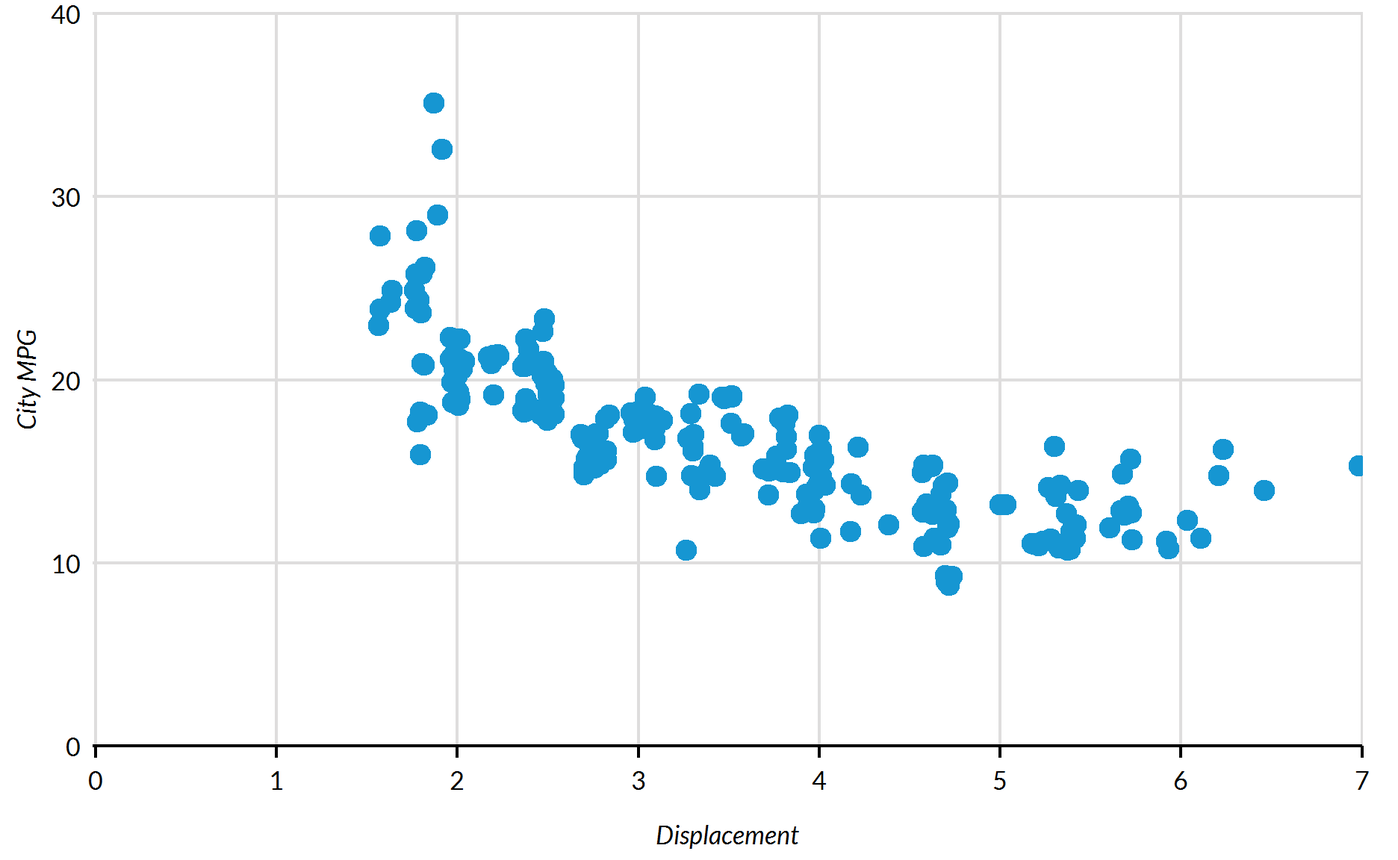
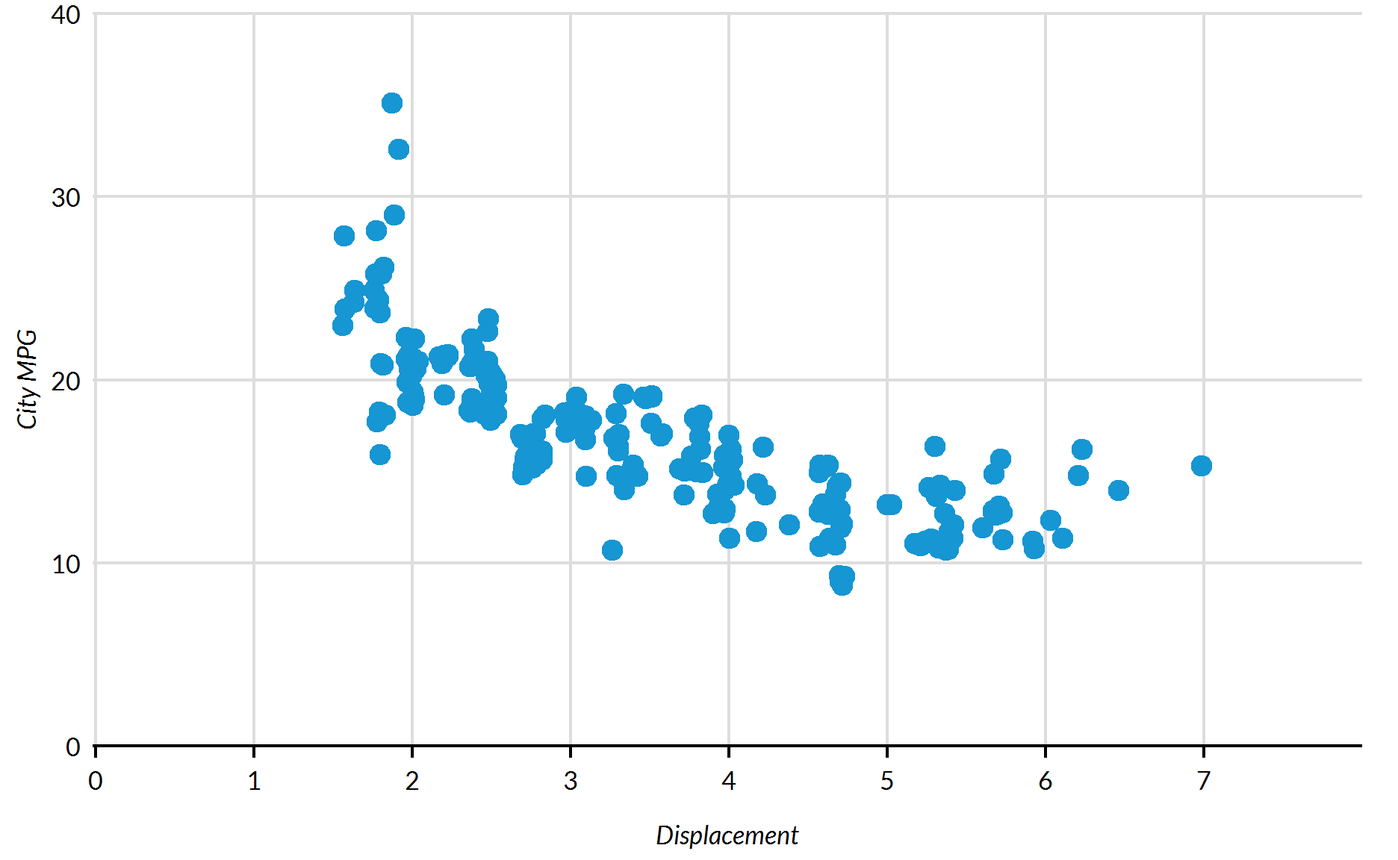
Make minor changes to the graphics guide. Add square corners to the tabs.

diff --git a/optimization.html b/optimization.html
@@ -472,7 +472,7 @@ profvis({
 
 })</code></pre>
 <div id="htmlwidget-8b456f2c311110f71d08" style="width:100%;height:600px;" class="profvis html-widget"></div>
-<script type="application/json" data-for="htmlwidget-8b456f2c311110f71d08">{"x":{"message":{"prof":{"time":[1,1,1,1,1,1,1,1,1,1,1,1,1,1,1,1,1,1,1,1,1,1,1,1,1,1,1,2,2,2,3,3,3,4,4,4,5,5,5,6,6,6,7,7,7,8,8,8,9,9,9,9,9,10,10,10,10,10,11,11,11,11,11,12,12,12,12,12,13,13,13,13,13,14,14,14,14,14,14,14,14,14,14,14,14],"depth":[27,26,25,24,23,22,21,20,19,18,17,16,15,14,13,12,11,10,9,8,7,6,5,4,3,2,1,3,2,1,3,2,1,3,2,1,3,2,1,3,2,1,3,2,1,3,2,1,5,4,3,2,1,5,4,3,2,1,5,4,3,2,1,5,4,3,2,1,5,4,3,2,1,12,11,10,9,8,7,6,5,4,3,2,1],"label":["profvis","eval","eval","withVisible","withCallingHandlers","handle","timing_fn","evaluate_call","evaluate::evaluate","evaluate","in_dir","block_exec","call_block","process_group.block","process_group","withCallingHandlers","process_file","knitr::knit","rmarkdown::render","withCallingHandlers","suppressMessages","render_one","FUN","lapply","sapply","generator$render","rmarkdown::render_site","scan","read.table","read.csv","scan","read.table","read.csv","scan","read.table","read.csv","scan","read.table","read.csv","scan","read.table","read.csv","scan","read.table","read.csv","scan","read.table","read.csv",".External2","type.convert.default","type.convert","read.table","read.csv",".External2","type.convert.default","type.convert","read.table","read.csv",".External2","type.convert.default","type.convert","read.table","read.csv",".External2","type.convert.default","type.convert","read.table","read.csv",".External2","type.convert.default","type.convert","read.table","read.csv","summarise_impl","summarise.tbl_df","summarise","summarise_if","function_list[[k]]","withVisible","freduce","_fseq","eval","eval","withVisible","%>%"],"filenum":[null,null,null,null,null,null,null,null,null,null,null,null,null,null,null,null,null,null,null,null,null,null,null,null,null,null,null,null,null,1,null,null,1,null,null,1,null,null,1,null,null,1,null,null,1,null,null,1,null,null,null,null,1,null,null,null,null,1,null,null,null,null,1,null,null,null,null,1,null,null,null,null,1,null,null,null,null,null,null,null,null,null,null,null,1],"linenum":[null,null,null,null,null,null,null,null,null,null,null,null,null,null,null,null,null,null,null,null,null,null,null,null,null,null,null,null,null,5,null,null,5,null,null,5,null,null,5,null,null,5,null,null,5,null,null,5,null,null,null,null,5,null,null,null,null,5,null,null,null,null,5,null,null,null,null,5,null,null,null,null,5,null,null,null,null,null,null,null,null,null,null,null,7],"memalloc":[95.0050964355469,95.0050964355469,95.0050964355469,95.0050964355469,95.0050964355469,95.0050964355469,95.0050964355469,95.0050964355469,95.0050964355469,95.0050964355469,95.0050964355469,95.0050964355469,95.0050964355469,95.0050964355469,95.0050964355469,95.0050964355469,95.0050964355469,95.0050964355469,95.0050964355469,95.0050964355469,95.0050964355469,95.0050964355469,95.0050964355469,95.0050964355469,95.0050964355469,95.0050964355469,95.0050964355469,96.2087860107422,96.2087860107422,96.2087860107422,97.4387664794922,97.4387664794922,97.4387664794922,99.8961715698242,99.8961715698242,99.8961715698242,99.920051574707,99.920051574707,99.920051574707,104.819297790527,104.819297790527,104.819297790527,104.822845458984,104.822845458984,104.822845458984,104.831237792969,104.831237792969,104.831237792969,110.68480682373,110.68480682373,110.68480682373,110.68480682373,110.68480682373,113.743667602539,113.743667602539,113.743667602539,113.743667602539,113.743667602539,114.567276000977,114.567276000977,114.567276000977,114.567276000977,114.567276000977,114.979080200195,114.979080200195,114.979080200195,114.979080200195,114.979080200195,115.802688598633,115.802688598633,115.802688598633,115.802688598633,115.802688598633,117.453880310059,117.453880310059,117.453880310059,117.453880310059,117.453880310059,117.453880310059,117.453880310059,117.453880310059,117.453880310059,117.453880310059,117.453880310059,117.453880310059],"meminc":[0,0,0,0,0,0,0,0,0,0,0,0,0,0,0,0,0,0,0,0,0,0,0,0,0,0,0,1.20368957519531,0,0,1.22998046875,0,0,2.45740509033203,0,0,0.0238800048828125,0,0,4.89924621582031,0,0,0.00354766845703125,0,0,0.008392333984375,0,0,5.85356903076172,0,0,0,0,3.05886077880859,0,0,0,0,0.8236083984375,0,0,0,0,0.41180419921875,0,0,0,0,0.8236083984375,0,0,0,0,1.65119171142578,0,0,0,0,0,0,0,0,0,0,0],"filename":[null,null,null,null,null,null,null,null,null,null,null,null,null,null,null,null,null,null,null,null,null,null,null,null,null,null,null,null,null,"<expr>",null,null,"<expr>",null,null,"<expr>",null,null,"<expr>",null,null,"<expr>",null,null,"<expr>",null,null,"<expr>",null,null,null,null,"<expr>",null,null,null,null,"<expr>",null,null,null,null,"<expr>",null,null,null,null,"<expr>",null,null,null,null,"<expr>",null,null,null,null,null,null,null,null,null,null,null,"<expr>"]},"interval":10,"files":[{"filename":"<expr>","content":"library(profvis)\nlibrary(dplyr)\n\nprofvis({\n\tdiamonds <- read.csv(\"optimization/data/diamonds.csv\")\n\t\n\tdiamonds_by_cut <- diamonds %>%\n\t\tgroup_by(cut) %>%\n\t\tsummarise_if(is.numeric, mean)\n\n\twrite.csv(diamonds_by_cut, file = \"optimization/data/diamonds_by_cut.csv\")\t\n\n})\n","normpath":"<expr>"}],"prof_output":"D:\\Users\\AWILLI~1\\AppData\\Local\\Temp\\RtmpeMih3w\\file70106d531412.prof","highlight":{"output":["^output\\$"],"gc":["^<GC>$"],"stacktrace":["^\\.\\.stacktraceo(n|ff)\\.\\.$"]},"split":"h"}},"evals":[],"jsHooks":[]}</script>
+<script type="application/json" data-for="htmlwidget-8b456f2c311110f71d08">{"x":{"message":{"prof":{"time":[1,1,1,2,2,2,3,3,3,4,4,4,5,5,5,6,6,6,7,7,7,8,8,8,9,9,9,10,10,10,11,11,11,12,12,12,13,13,13,13,13,14,14,14,14,14,15,15,15,15,15,16,16,16,16,16,17,17,17,17,17,18,18,18,18,18,19,19,19,19,19,20,20,20,20,20,20,20,20,20,20,20,20,21,21,21,21,21,21,21],"depth":[3,2,1,3,2,1,3,2,1,3,2,1,3,2,1,3,2,1,3,2,1,3,2,1,3,2,1,3,2,1,3,2,1,3,2,1,5,4,3,2,1,5,4,3,2,1,5,4,3,2,1,5,4,3,2,1,5,4,3,2,1,5,4,3,2,1,5,4,3,2,1,12,11,10,9,8,7,6,5,4,3,2,1,7,6,5,4,3,2,1],"label":["scan","read.table","read.csv","scan","read.table","read.csv","scan","read.table","read.csv","scan","read.table","read.csv","scan","read.table","read.csv","scan","read.table","read.csv","scan","read.table","read.csv","scan","read.table","read.csv","scan","read.table","read.csv","scan","read.table","read.csv","scan","read.table","read.csv","scan","read.table","read.csv",".External2","type.convert.default","type.convert","read.table","read.csv",".External2","type.convert.default","type.convert","read.table","read.csv",".External2","type.convert.default","type.convert","read.table","read.csv",".External2","type.convert.default","type.convert","read.table","read.csv",".External2","type.convert.default","type.convert","read.table","read.csv",".External2","type.convert.default","type.convert","read.table","read.csv",".External2","type.convert.default","type.convert","read.table","read.csv","summarise_impl","summarise.tbl_df","summarise","summarise_if","function_list[[k]]","withVisible","freduce","_fseq","eval","eval","withVisible","%>%","close.connection","close","write.table","eval","eval","eval.parent","write.csv"],"filenum":[null,null,1,null,null,1,null,null,1,null,null,1,null,null,1,null,null,1,null,null,1,null,null,1,null,null,1,null,null,1,null,null,1,null,null,1,null,null,null,null,1,null,null,null,null,1,null,null,null,null,1,null,null,null,null,1,null,null,null,null,1,null,null,null,null,1,null,null,null,null,1,null,null,null,null,null,null,null,null,null,null,null,1,null,null,null,null,null,null,1],"linenum":[null,null,5,null,null,5,null,null,5,null,null,5,null,null,5,null,null,5,null,null,5,null,null,5,null,null,5,null,null,5,null,null,5,null,null,5,null,null,null,null,5,null,null,null,null,5,null,null,null,null,5,null,null,null,null,5,null,null,null,null,5,null,null,null,null,5,null,null,null,null,5,null,null,null,null,null,null,null,null,null,null,null,7,null,null,null,null,null,null,11],"memalloc":[95.1047897338867,95.1047897338867,95.1047897338867,96.1844940185547,96.1844940185547,96.1844940185547,97.4150238037109,97.4150238037109,97.4150238037109,99.8676681518555,99.8676681518555,99.8676681518555,99.8824691772461,99.8824691772461,99.8824691772461,99.9040222167969,99.9040222167969,99.9040222167969,101.376708984375,101.376708984375,101.376708984375,104.795989990234,104.795989990234,104.795989990234,104.797790527344,104.797790527344,104.797790527344,104.801071166992,104.801071166992,104.801071166992,104.804962158203,104.804962158203,104.804962158203,105.632347106934,105.632347106934,105.632347106934,109.336868286133,109.336868286133,109.336868286133,109.336868286133,109.336868286133,113.307434082031,113.307434082031,113.307434082031,113.307434082031,113.307434082031,114.336814880371,114.336814880371,114.336814880371,114.336814880371,114.336814880371,114.542854309082,114.542854309082,114.542854309082,114.542854309082,114.542854309082,114.954658508301,114.954658508301,114.954658508301,114.954658508301,114.954658508301,115.36646270752,115.36646270752,115.36646270752,115.36646270752,115.36646270752,115.778266906738,115.778266906738,115.778266906738,115.778266906738,115.778266906738,117.427551269531,117.427551269531,117.427551269531,117.427551269531,117.427551269531,117.427551269531,117.427551269531,117.427551269531,117.427551269531,117.427551269531,117.427551269531,117.427551269531,117.567276000977,117.567276000977,117.567276000977,117.567276000977,117.567276000977,117.567276000977,117.567276000977],"meminc":[0,0,0,1.07970428466797,0,0,1.23052978515625,0,0,2.45264434814453,0,0,0.014801025390625,0,0,0.0215530395507812,0,0,1.47268676757812,0,0,3.41928100585938,0,0,0.001800537109375,0,0,0.0032806396484375,0,0,0.0038909912109375,0,0,0.827384948730469,0,0,3.70452117919922,0,0,0,0,3.97056579589844,0,0,0,0,1.02938079833984,0,0,0,0,0.206039428710938,0,0,0,0,0.41180419921875,0,0,0,0,0.41180419921875,0,0,0,0,0.41180419921875,0,0,0,0,1.64928436279297,0,0,0,0,0,0,0,0,0,0,0,0.139724731445312,0,0,0,0,0,0],"filename":[null,null,"<expr>",null,null,"<expr>",null,null,"<expr>",null,null,"<expr>",null,null,"<expr>",null,null,"<expr>",null,null,"<expr>",null,null,"<expr>",null,null,"<expr>",null,null,"<expr>",null,null,"<expr>",null,null,"<expr>",null,null,null,null,"<expr>",null,null,null,null,"<expr>",null,null,null,null,"<expr>",null,null,null,null,"<expr>",null,null,null,null,"<expr>",null,null,null,null,"<expr>",null,null,null,null,"<expr>",null,null,null,null,null,null,null,null,null,null,null,"<expr>",null,null,null,null,null,null,"<expr>"]},"interval":10,"files":[{"filename":"<expr>","content":"library(profvis)\nlibrary(dplyr)\n\nprofvis({\n\tdiamonds <- read.csv(\"optimization/data/diamonds.csv\")\n\t\n\tdiamonds_by_cut <- diamonds %>%\n\t\tgroup_by(cut) %>%\n\t\tsummarise_if(is.numeric, mean)\n\n\twrite.csv(diamonds_by_cut, file = \"optimization/data/diamonds_by_cut.csv\")\t\n\n})\n","normpath":"<expr>"}],"prof_output":"D:\\Users\\AWILLI~1\\AppData\\Local\\Temp\\RtmpgZwfrS\\file22203a732baf.prof","highlight":{"output":["^output\\$"],"gc":["^<GC>$"],"stacktrace":["^\\.\\.stacktraceo(n|ff)\\.\\.$"]},"split":"h"}},"evals":[],"jsHooks":[]}</script>
 <p>In this toy example it looks like the <code>read.csv</code> function is the bottleneck, so work on optimizing that first.</p>
 <p>Once you find the bottleneck that needs to be optimized, it can be useful to benchmark different potential solutions. The <code>microbenchmark</code> package can help you choose between different options. Continuing with the simple example with the <code>diamonds</code> dataset, compare the base <code>read.csv</code> function with <code>read_csv</code> from the <code>readr</code> package.</p>
 <pre class="r"><code>library(microbenchmark)
@@ -482,12 +482,12 @@ microbenchmark(
   readr::read_csv(&quot;optimization/data/diamonds.csv&quot;)
 )</code></pre>
 <pre><code>## Unit: milliseconds
-##                                               expr       min        lq
-##         read.csv(&quot;optimization/data/diamonds.csv&quot;) 134.20627 149.93685
-##  readr::read_csv(&quot;optimization/data/diamonds.csv&quot;)  57.50311  64.90305
-##       mean    median        uq       max neval cld
-##  160.21026 157.05230 167.89867 379.52642   100   b
-##   70.68493  69.77197  74.81797  94.65384   100  a</code></pre>
+##                                               expr      min        lq
+##         read.csv(&quot;optimization/data/diamonds.csv&quot;) 155.6819 179.90399
+##  readr::read_csv(&quot;optimization/data/diamonds.csv&quot;)  63.0492  75.99749
+##       mean    median        uq      max neval cld
+##  196.40302 190.65691 204.76792 495.9757   100   b
+##   84.98993  82.51298  92.89815 114.3342   100  a</code></pre>
 <p>In this case, <code>read_csv</code> is about twice as fast as the base R implementations.</p>
 </div>
 <div id="parallel-computing" class="section level1">
@@ -548,12 +548,12 @@ microbenchmark::microbenchmark(
   unit = &quot;s&quot;
 )</code></pre>
 <pre><code>## Unit: seconds
-##        expr         min          lq          mean       median          uq
-##  sequential 0.000002643 0.000003021 0.00000625679 0.0000058525 0.000007174
-##    parallel 0.031939922 0.037181121 0.04078799092 0.0399983390 0.042520111
+##        expr         min          lq          mean      median          uq
+##  sequential 0.000002643 0.000003021 0.00000606048 0.000006042 0.000007363
+##    parallel 0.034700694 0.041135382 0.04568158684 0.044017353 0.049636686
 ##          max neval cld
-##  0.000037379   100  a 
-##  0.079052760   100   b</code></pre>
+##  0.000021145   100  a 
+##  0.078771473   100   b</code></pre>
 <p>Parallelization was actually slower. In this case, the overhead of setting the code to run in parallel far outweighed any performance gain. In general, parallelization works well on long-running &amp; compute intensive jobs.</p>
 </div>
 <div id="a-somewhat-more-complex-example" class="section level2">
@@ -570,7 +570,7 @@ system.time(
          )
   )</code></pre>
 <pre><code>##    user  system elapsed 
-##   48.48    0.56   49.11</code></pre>
+##   51.38    2.05   53.71</code></pre>
 <p>A now running the same code in parallel:</p>
 <pre class="r"><code>library(future.apply)
 plan(multiprocess)
@@ -581,7 +581,7 @@ system.time(
                 )
   )</code></pre>
 <pre><code>##    user  system elapsed 
-##    0.07    0.17   27.30</code></pre>
+##    0.10    0.17   31.06</code></pre>
 <p>While we didn’t achieve perfect scaling, we still get a nice bump in execution time.</p>
 </div>
 <div id="additional-packages" class="section level2">
@@ -746,9 +746,9 @@ microbenchmark::microbenchmark(
   good_loop(x)
 )</code></pre>
 <pre><code>## Unit: microseconds
-##          expr     min       lq       mean    median       uq       max
-##   bad_loop(x) 976.389 1059.832 1716.67792 1221.9965 1528.770 15426.264
-##  good_loop(x)   9.062   10.572   89.15178   13.0265   19.257  7306.304
+##          expr     min        lq       mean   median       uq       max
+##   bad_loop(x) 989.982 1072.6695 1710.92762 1246.539 1349.426 16203.298
+##  good_loop(x)   8.685   10.1945   79.61062   12.649   18.501  6466.217
 ##  neval cld
 ##    100   b
 ##    100  a</code></pre>
@@ -760,12 +760,12 @@ microbenchmark::microbenchmark(
   good_loop(y)
 )</code></pre>
 <pre><code>## Unit: microseconds
-##          expr       min         lq        mean     median        uq
-##   bad_loop(y) 13800.837 17647.1150 22467.98759 23231.5230 26257.535
-##  good_loop(y)    20.767    23.2215    37.84039    37.5685    46.819
-##        max neval cld
-##  34211.744   100   b
-##     75.891   100  a</code></pre>
+##          expr       min        lq        mean    median         uq
+##   bad_loop(y) 18149.657 28343.217 36582.41693 33185.894 39934.9080
+##  good_loop(y)    21.145    26.619    44.64039    41.156    53.4265
+##         max neval cld
+##  279785.618   100   b
+##     111.005   100  a</code></pre>
 </div>
 <div id="vectorized-functions" class="section level2">
 <h2>Vectorized Functions</h2>
@@ -779,10 +779,13 @@ microbenchmark::microbenchmark(
   lapply(x, sqrt),
   sqrt(x)
 )</code></pre>
-<pre><code>## Unit: nanoseconds
-##             expr   min    lq     mean  median    uq   max neval cld
-##  lapply(x, sqrt) 33604 35114 41087.36 35680.5 49462 66830   100   b
-##          sqrt(x)   755  1133  1801.51  1133.0  1511 17369   100  a</code></pre>
+<pre><code>## Unit: microseconds
+##             expr    min      lq     mean   median       uq     max neval
+##  lapply(x, sqrt) 47.574 62.1105 95.83085 101.3775 113.2710 180.478   100
+##          sqrt(x)  1.133  2.0775  4.02162   3.3985   4.3425  34.359   100
+##  cld
+##    b
+##   a</code></pre>
 </div>
 </div>
 

diff --git a/graphics-guide.html b/graphics-guide.html
@@ -445,14 +445,14 @@ div.tocify {
 <h2>Urban Institute R Graphics Guide</h2>
 <hr />
 <p>R is a powerful, open-source programming language and environment. R excels at data management and munging, traditional statistical analysis, machine learning, and reproducible research, but it is probably best known for its graphics. This guide contains examples and instructions for popular and lesser-known plotting techniques in R. It also includes instructions for using <code>urbnthemes</code>, the Urban Institute’s R package for creating near-publication-ready plots with <code>ggplot2</code>. If you have any questions, please don’t hesitate to contact Aaron Williams (<a href="mailto:awilliams@urban.org">awilliams@urban.org</a>) or Kyle Ueyama (<a href="mailto:kueyama@urban.org">kueyama@urban.org</a>).</p>
-<div id="background" class="section level4">
-<h4>Background</h4>
+<div id="background" class="section level3">
+<h3>Background</h3>
 <p><code>library(urbnthemes)</code> makes <code>ggplot2</code> output align more closely with <a href="http://urbaninstitute.github.io/graphics-styleguide/">the Urban Institute’s Data Visualization style guide</a>. This package does <strong>not produce publication ready graphics</strong>. Visual styles must still be edited using your project/paper’s normal editing workflow.</p>
-<p>Exporting charts as a pdf will allow them to be more easily edited. You may need to tweak pdf export options to preserve fonts. For example, in RStudio on OSX, check this option in the export pdf window: <img src="graphics-guide/www/images/pdf_export_option.png" width="241" /></p>
+<p>Exporting charts as a pdf will allow them to be more easily edited. See the Saving Plots section for more information.</p>
 <p>The theme has been tested against <code>ggplot2 version 3.0.0</code>. It will not function properly with older versions of <code>ggplot2</code></p>
 </div>
-<div id="using-libraryurbnthemes" class="section level4">
-<h4>Using library(urbnthemes)</h4>
+<div id="using-libraryurbnthemes" class="section level3">
+<h3>Using library(urbnthemes)</h3>
 <p>Run the following code to install or update <code>urbnthemes</code>:</p>
 <pre><code>install.packages(&quot;devtools&quot;)
 devtools::install_github(&quot;UI-Research/urbnthemes&quot;)</code></pre>
@@ -469,8 +469,8 @@ set_urbn_defaults(style = &quot;print&quot;)</code></pre>
 urbnthemes::lato_install()</code></pre>
 <p>Loading and importing fonts may take a few minutes.</p>
 </div>
-<div id="grammar-of-graphics-and-conventions" class="section level4">
-<h4>Grammar of Graphics and Conventions</h4>
+<div id="grammar-of-graphics-and-conventions" class="section level3">
+<h3>Grammar of Graphics and Conventions</h3>
 <p>Hadley Wickham’s ggplot2 is based on Leland Wilkinson’s <a href="https://www.amazon.com/Grammar-Graphics-Statistics-Computing/dp/0387245448"><em>The Grammar of Graphics</em></a> and Wickham’s <a href="http://vita.had.co.nz/papers/layered-grammar.html"><em>A Layered Grammar of Graphics</em></a>. The layered grammar of graphics is a structured way of thinking about the components of a plot, which then lend themselves to the simple structure of ggplot2.</p>
 <ul>
 <li><strong>Data</strong> are what are visualizaed in a plot and <strong>mappings</strong> are directions for how data are mapped in a plot in a way that can be perceived by humans.<br />
@@ -485,14 +485,12 @@ urbnthemes::lato_install()</code></pre>
 </ul>
 <p>More information: <a href="https://www.amazon.com/ggplot2-Elegant-Graphics-Data-Analysis/dp/0387981403">ggplot2: Elegant Graphics for Data Analysis</a></p>
 </div>
-<div id="tips-and-tricks" class="section level4">
-<h4>Tips and Tricks</h4>
+<div id="tips-and-tricks" class="section level3">
+<h3>Tips and Tricks</h3>
 <ul>
 <li><p><code>ggplot2</code> expects data to be in data frames or tibbles. It is preferable for the data frames to be “tidy” with each variable as a column, each obseravtion as a row, and each observational unit as a separate table. <code>dplyr</code> and <code>tidyr</code> contain concise and effective tools for “tidying” data.</p></li>
 <li><p>R allows function arguments to be called explicitly by name and implicitly by position. The coding examples in this guide only contain named arguments for clarity.</p></li>
-<li><p>Continuous legends should be switched to vertical using <code>theme(legend.direction = &quot;vertical&quot;)</code>.</p></li>
 <li><p>Graphics will sometimes render differently on different operating systems. This is because anti-aliasing is activated in R on Mac and Linux but not activated in R on Windows. This won’t be an issue once graphics are saved.</p></li>
-<li><p>Most features of plots can be adjusted by adding <code>theme()</code> to the end of a ggplot call. For example, a plot with a continuous legend would look like this:</p></li>
 <li><p>Continuous x-axes have ticks. Discrete x-axes do not have ticks. Use <code>remove_ticks()</code> to remove ticks.</p></li>
 </ul>
 </div>
@@ -512,7 +510,7 @@ urbnthemes::lato_install()</code></pre>
        y = NULL) +
   remove_ticks() +
   remove_axis() </code></pre>
-<p><img src="graphics-guide/www/images/barplots-2.png" width="624" /></p>
+<p><img src="graphics-guide/www/images/barplots-1.png" width="624" /></p>
 </div>
 <div id="one-color-rotated" class="section level3">
 <h3>One Color (Rotated)</h3>
@@ -704,7 +702,7 @@ urbnthemes::lato_install()</code></pre>
   ggplot(mapping = aes(x = displ, y = cty)) +
   geom_point() +
   scale_x_continuous(expand = expand_scale(mult = c(0.002, 0)), 
-                     limits = c(0, 7),
+                     limits = c(0, 8),
                      breaks = 0:7) +
   scale_y_continuous(expand = expand_scale(mult = c(0, 0.002)), 
                      limits = c(0, 40),
@@ -721,7 +719,7 @@ mpg %&gt;%
   ggplot(mapping = aes(x = displ, y = cty)) +
   geom_jitter() +
   scale_x_continuous(expand = expand_scale(mult = c(0.002, 0)), 
-                     limits = c(0, 7),
+                     limits = c(0, 8),
                      breaks = 0:7) +
   scale_y_continuous(expand = expand_scale(mult = c(0, 0.002)), 
                      limits = c(0, 40),
@@ -750,7 +748,8 @@ mpg %&gt;%
                labels = scales::comma) +
   labs(x = &quot;Household income&quot;,
        y = &quot;Homeownership rate&quot;) +
-  scatter_grid()</code></pre>
+  scatter_grid() +
+  theme(plot.margin = margin(r = 20))</code></pre>
 <p><img src="graphics-guide/www/images/geom_point-size-1.png" width="624" /></p>
 </div>
 <div id="scatter-plots-with-fill" class="section level3">
@@ -1598,7 +1597,7 @@ mpg %&gt;%
 <h2>Saving Plots</h2>
 <hr />
 <p><code>ggsave()</code> exports ggplot2 plots. The function can be used in two ways. If <code>plot =</code> isn’t specified in the function call, then <code>ggsave()</code> automatically saves the plot that was last displayed in the Viewer window. Second, if <code>plot =</code> is specified, then <code>ggsave()</code> saves the specified plot. <code>ggsave()</code> guesses the type of graphics device to use in export (.png, .pdf, .svg, etc.) from the file extension in the filename.</p>
-<pre class="r"><code>mtcars %&gt;%
+<pre><code>mtcars %&gt;%
   ggplot(aes(x = wt, y = mpg)) +
   geom_point()
 
@@ -1610,7 +1609,12 @@ plot2 &lt;- mtcars %&gt;%
 
 ggsave(filename = &quot;cars.png&quot;, plot = plot2)</code></pre>
 <p>Exported plots rarely look identical to the plots that show up in the Viewer window in RStudio because the overall size and aspect ratio of the Viewer is often different than the defaults for <code>ggsave()</code>. Specific sizes, aspect ratios, and resolutions can be controlled with arguments in <code>ggsave()</code>. RStudio has a useful <a href="https://www.rstudio.com/resources/cheatsheets/">cheatsheet</a> called “How Big is Your Graph?” that should help with choosing the best size, aspect ratio, and resolution.</p>
-<p>In general, .svg files appear crisper than .png or .pdf files. However, .png and .pdf are more stable in web browsers.</p>
+<p>Fonts are not embedded in PDFs by default. To embed fonts in PDFs, include <code>device = cairo_pdf</code> in <code>ggsave()</code>.</p>
+<pre><code>plot &lt;- mtcars %&gt;%
+  ggplot(aes(x = wt, y = mpg)) +
+  geom_point()
+
+ggsave(filename = &quot;cars.png&quot;, plot = plot2, width = 10, height = 6, device = cairo_pdf)</code></pre>
 </div>
 <div id="bibliography-and-session-information" class="section level2">
 <h2>Bibliography and Session Information</h2>
@@ -1656,24 +1660,24 @@ ggsave(filename = &quot;cars.png&quot;, plot = plot2)</code></pre>
 ## 
 ## loaded via a namespace (and not attached):
 ##  [1] Rcpp_1.0.0          lubridate_1.7.4     lattice_0.20-38    
-##  [4] png_0.1-7           assertthat_0.2.0    digest_0.6.18      
-##  [7] R6_2.3.0            cellranger_1.1.0    plyr_1.8.4         
-## [10] backports_1.1.3     evaluate_0.12       httr_1.4.0         
-## [13] pillar_1.3.1        rlang_0.3.1         lazyeval_0.2.1     
-## [16] readxl_1.2.0        rstudioapi_0.9.0    extrafontdb_1.0    
-## [19] Matrix_1.2-15       rmarkdown_1.11      labeling_0.3       
-## [22] extrafont_0.17      munsell_0.5.0       broom_0.5.1        
-## [25] compiler_3.5.1      modelr_0.1.2        xfun_0.4           
-## [28] pkgconfig_2.0.2     mgcv_1.8-26         htmltools_0.3.6    
-## [31] tidyselect_0.2.5    gridExtra_2.3       crayon_1.3.4       
-## [34] withr_2.1.2         grid_3.5.1          nlme_3.1-137       
-## [37] jsonlite_1.6        Rttf2pt1_1.3.7      gtable_0.2.0       
-## [40] magrittr_1.5        scales_1.0.0        cli_1.0.1          
-## [43] stringi_1.2.4       reshape2_1.4.3      xml2_1.2.0         
-## [46] generics_0.0.2      RColorBrewer_1.1-2  tools_3.5.1        
-## [49] glue_1.3.0          urbnmapr_0.0.0.9001 hms_0.4.2          
-## [52] yaml_2.2.0          colorspace_1.4-0    rvest_0.3.2        
-## [55] bindr_0.1.1         haven_2.0.0</code></pre>
+##  [4] assertthat_0.2.0    digest_0.6.18       R6_2.3.0           
+##  [7] cellranger_1.1.0    plyr_1.8.4          backports_1.1.3    
+## [10] evaluate_0.12       httr_1.4.0          pillar_1.3.1       
+## [13] rlang_0.3.1         lazyeval_0.2.1      readxl_1.2.0       
+## [16] rstudioapi_0.9.0    extrafontdb_1.0     Matrix_1.2-15      
+## [19] rmarkdown_1.11      labeling_0.3        extrafont_0.17     
+## [22] munsell_0.5.0       broom_0.5.1         compiler_3.5.1     
+## [25] modelr_0.1.2        xfun_0.4            pkgconfig_2.0.2    
+## [28] mgcv_1.8-26         htmltools_0.3.6     tidyselect_0.2.5   
+## [31] gridExtra_2.3       crayon_1.3.4        withr_2.1.2        
+## [34] grid_3.5.1          nlme_3.1-137        jsonlite_1.6       
+## [37] Rttf2pt1_1.3.7      gtable_0.2.0        magrittr_1.5       
+## [40] scales_1.0.0        cli_1.0.1           stringi_1.2.4      
+## [43] reshape2_1.4.3      xml2_1.2.0          generics_0.0.2     
+## [46] RColorBrewer_1.1-2  tools_3.5.1         glue_1.3.0         
+## [49] urbnmapr_0.0.0.9001 hms_0.4.2           yaml_2.2.0         
+## [52] colorspace_1.4-0    rvest_0.3.2         bindr_0.1.1        
+## [55] haven_2.0.0</code></pre>
 </div>
 <div class="footnotes">
 <hr />

diff --git a/styles.css b/styles.css
@@ -62,10 +62,15 @@ p {
 }
 
 .tocify {
-	border-radius: 0px;
+	border-radius: 0;
 }
 
 /* Button Formatting */
 .btn {
 	border-radius: 0;	
+}
+
+/* tabs formatting */
+.nav-tabs>li>a {
+	border-radius: 0;
 }
